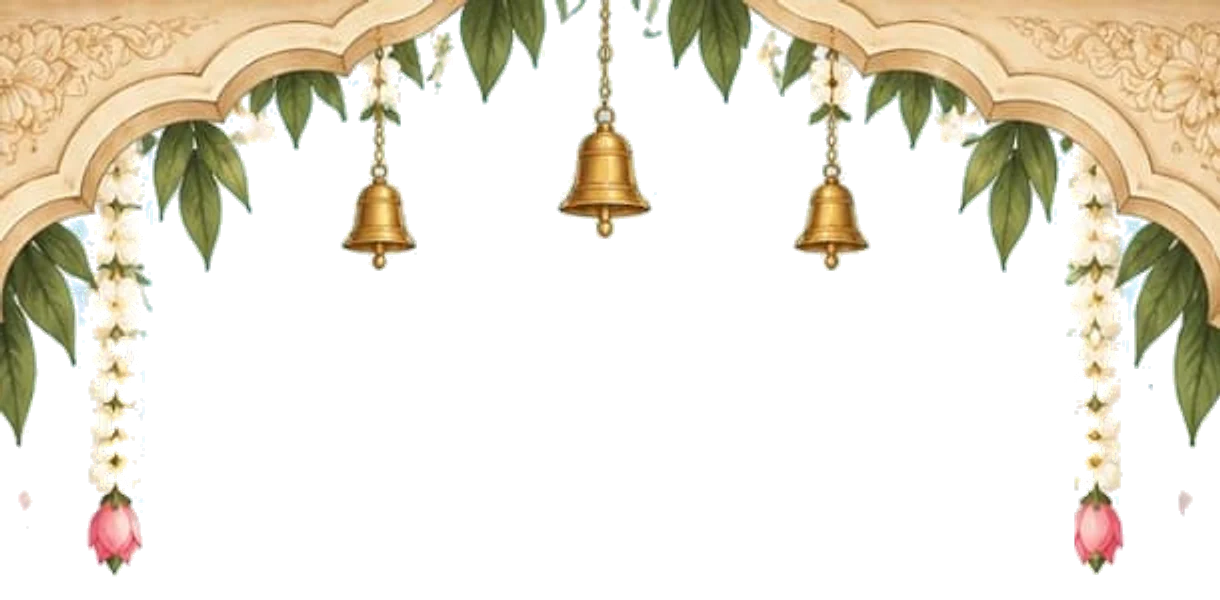
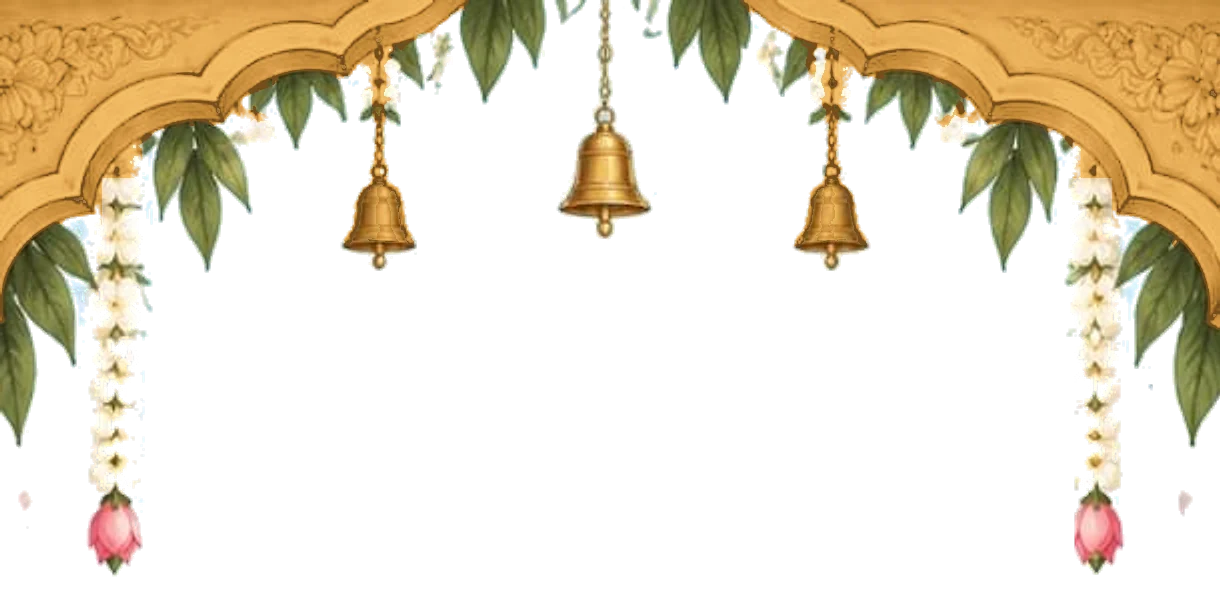
Couple section: the arch in the gold of Parvati's saree
The carved arch at the top of section 02 is recoloured from ivory to the
gold of Parvati's saree in the Save the Date painting. That gold was
measured on the saree's zari border: median rgb(220,160,77), deep folds
(193,135,53), highlights (242,189,102).

Only the arch changes. It was selected from the two top corners through
its own warm cream tones, so the leaves, the jasmine strings (whose
columns are protected), the lotus buds and the brass bells keep their
colours. Its light and shade is mapped onto those golds, so the carving
still reads.

Changed region(s): [[0.5918, 0.0, 1.0, 0.57], [0.0, 0.0, 0.4049, 0.48]]

diff --git a/src/config/wedding.ts b/src/config/wedding.ts
@@ -379,7 +379,8 @@ export const wedding = {
     omSeal: "/art/om-seal.webp",
     /**
      * Section 02, made from one painting (its text and sky taken out, so the site's sky shows
-     * through): the carved arch with bells and jasmine strings across the top (1220 × 600), and
+     * through): the carved arch — recoloured to the gold of Parvati's saree in the Save the Date
+     * painting — with bells and jasmine strings across the top (1220 × 600), and
      * the scene at the foot (1220 × 1448) — palms, petals, hills, a temple by the river, a diya,
      * lotuses, and the couple offering water to the Shivling.
      */

diff --git a/README.md b/README.md
@@ -113,7 +113,7 @@ Each section has its own composition, and each hands over to the next.
 | 00 | Gate | Every time the link opens: a soft sky, the golden ॐ wax seal (`assets.omSeal`) breathing in a soft glow, a little hand tapping it, and "Touch to begin" (`invitation.touchToBegin`). A tap anywhere sends a golden ripple out from the seal, gives a tiny buzz where phones allow, and fades into the opening. Skip goes straight to the Save the Date. Reduced motion: no breathing or ripple, just a 300 ms fade. |
 | 00 | Opening | Both hands start partly off the screen — Shiva's at the upper left, palm down; the bride's at the lower right, palm up — and glide slowly to the centre, where Shiva's hand settles over hers and rests (a soft contact shadow, a warm gold glow). The hands are the painted artwork, only moved and faded, never stretched or redrawn. Then the glow widens, a few gold motes drift outward and both hands fade together into the sky. Skip is always shown, a reload gets a quicker version, and `?opening=full` replays the full one. |
 | 01 | Save the Date | Exactly one screen (`100svh`). The card rises in piece by piece, in order of importance: "Save the Date", the names (stacked: bride, a small gold "&", groom — never cut, however long), the request, the date on one line (February · 12 · 2027) and the venue (a tap opens Google Maps directions); then the painting of Mahadev blessing Maa Parvati before the snowy Himalaya, its sky melting into the site's sky behind the words and its foot meeting the bottom edge of the screen. Over its lower edge, on a soft dark-navy gradient: the blessing line and **View the Invitation** with a gently bobbing double arrow — a tap glides to the next section. EN / हिं switches the card to Hindi (`invitation.hindi`, remembered on the phone). Light clouds part as the guest scrolls, the moon in Mahadev's hair glows softly, and a bell in the corner plays a soft temple dhun made in the browser — only when tapped. After 5 s of reading it glides on by itself (`invitation.autoAdvanceMs`); any touch cancels this. |
-| 02 | Couple | One screen in the style of the couple's chosen painting, on the site's own sky and without text: a carved arch with temple bells and jasmine strings across the top (`assets.coupleArch`), and at the foot (`assets.coupleScene`) palms, petals, hills, a temple by the river, a diya, lotuses and the couple offering water to the Shivling. Both pieces were cut from the painting with its text and sky taken out. It keeps the `#couple` id because "View the Invitation" and the auto-glide land here. |
+| 02 | Couple | One screen in the style of the couple's chosen painting, on the site's own sky and without text: a carved arch in the gold of Parvati's saree (from the Save the Date painting), with temple bells and jasmine strings, across the top (`assets.coupleArch`), and at the foot (`assets.coupleScene`) palms, petals, hills, a temple by the river, a diya, lotuses and the couple offering water to the Shivling. Both pieces were cut from the painting with its text and sky taken out. It keeps the `#couple` id because "View the Invitation" and the auto-glide land here. |
 | 03 | Countdown | The cloud parts; a gold temple arch draws down from Shiva's crescent; live time to the muhurat at the venue. On the day it reads "Today Is the Day", afterwards "Happily Married". |
 | 04 | Our Story | A golden path winds between the moments and draws with the scroll, ending in a kalash. |
 | 05 | Events | The kalash ties on a twisted gold "sacred thread"; each ceremony hangs from it as a medallion, grouped by day. |
